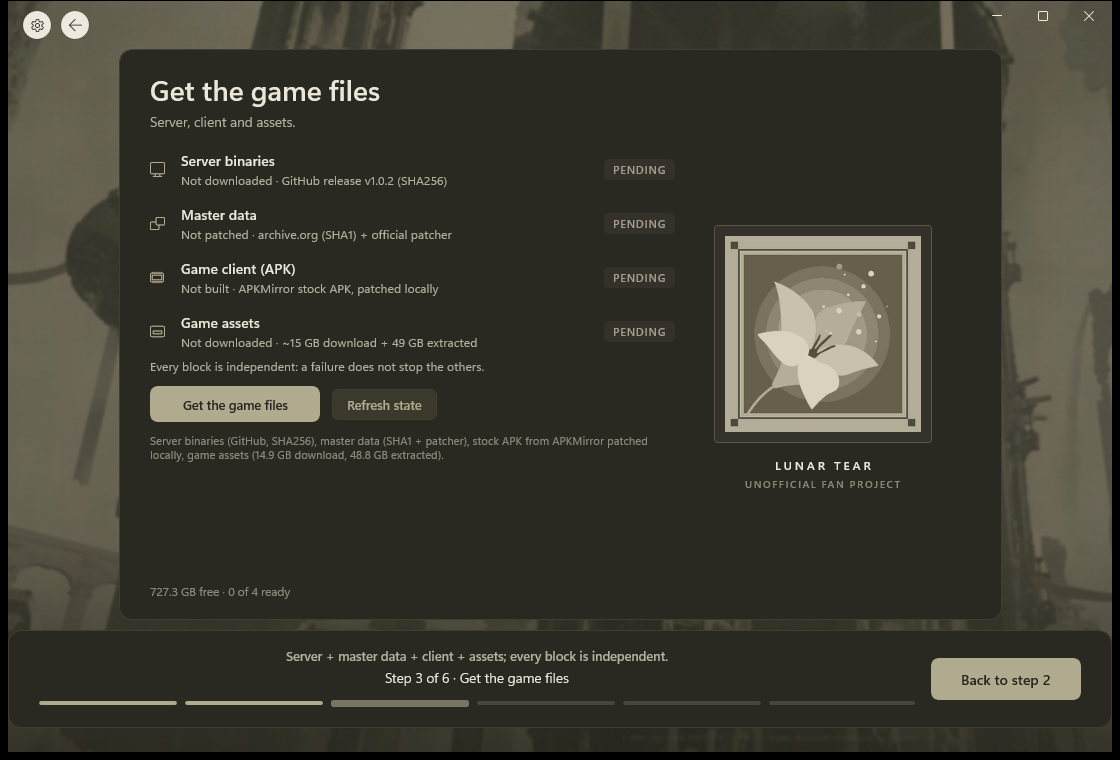
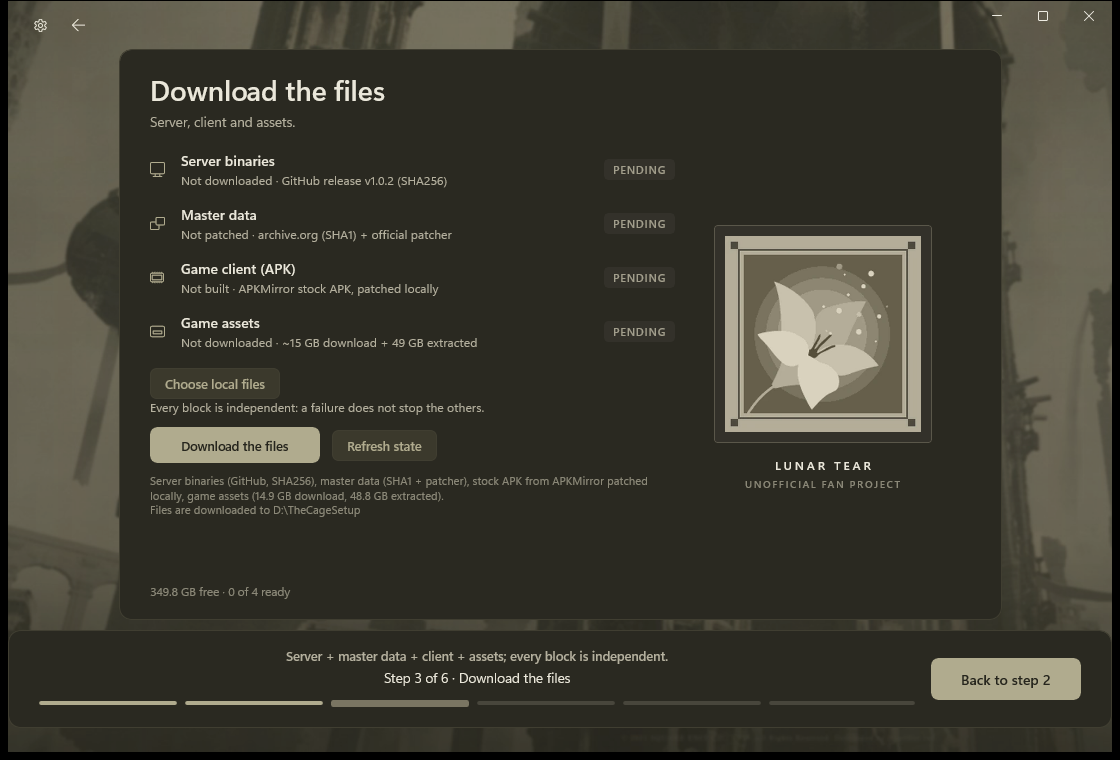
Refresh screenshot and document the local files option

diff --git a/README.md b/README.md
@@ -18,9 +18,11 @@ The build is not code-signed, so Windows SmartScreen shows an unknown-publisher 
 
 A portable `TheCageSetup.exe` is attached to the same release if you prefer no installation. Keep its file name: the single-file build looks up its bundled resources by its own name.
 
+Already have the game files? On step 3, **Choose local files** points the setup at a folder that already holds them, and the page shows where downloads go. The choice is saved in `settings.ini` next to the executable.
+
 ## Requirements
 
-- Windows 11, x64, administrator rights
+- Windows 11, x64, administrator rights (step 1 can restart the setup with elevation)
 - Virtualization enabled in firmware
 - About 65 GB free for the game assets (15 GB download, 49 GB extracted)
 
